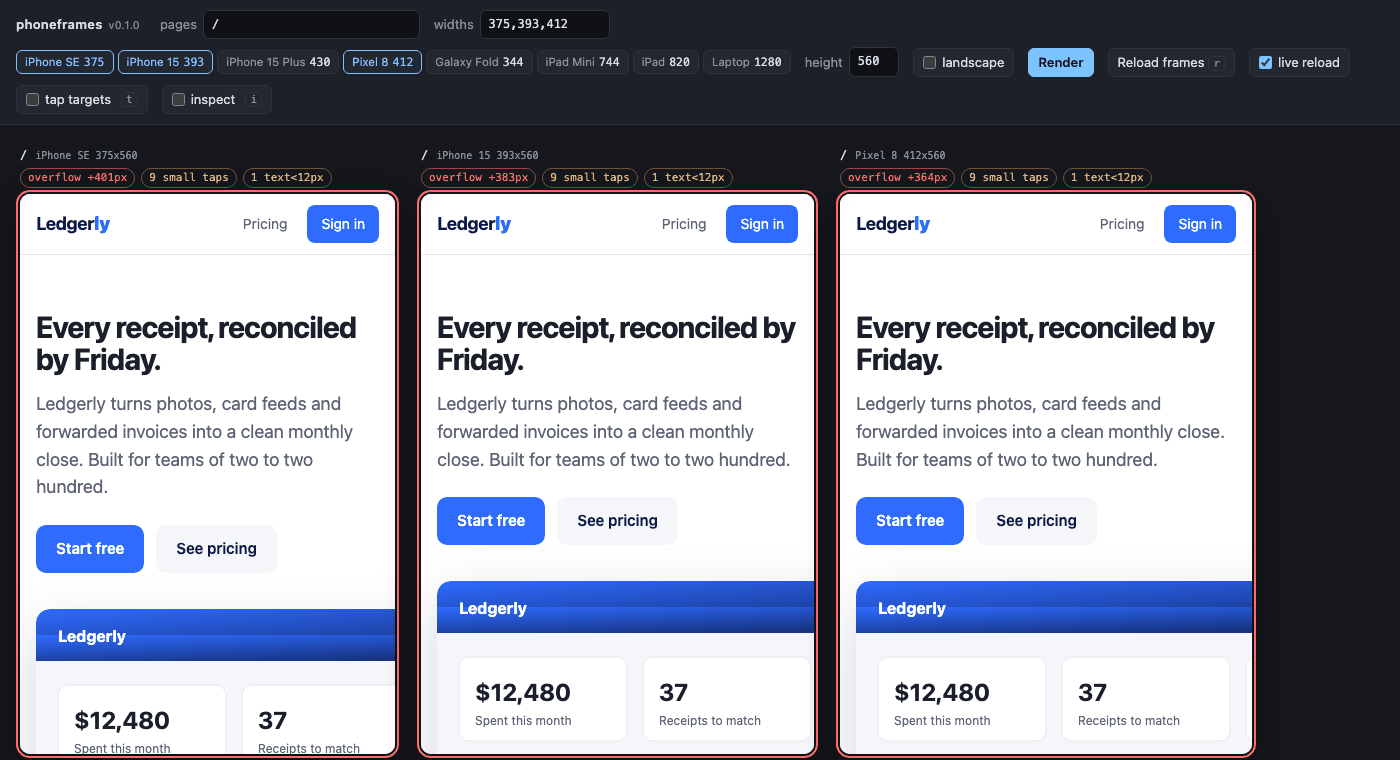
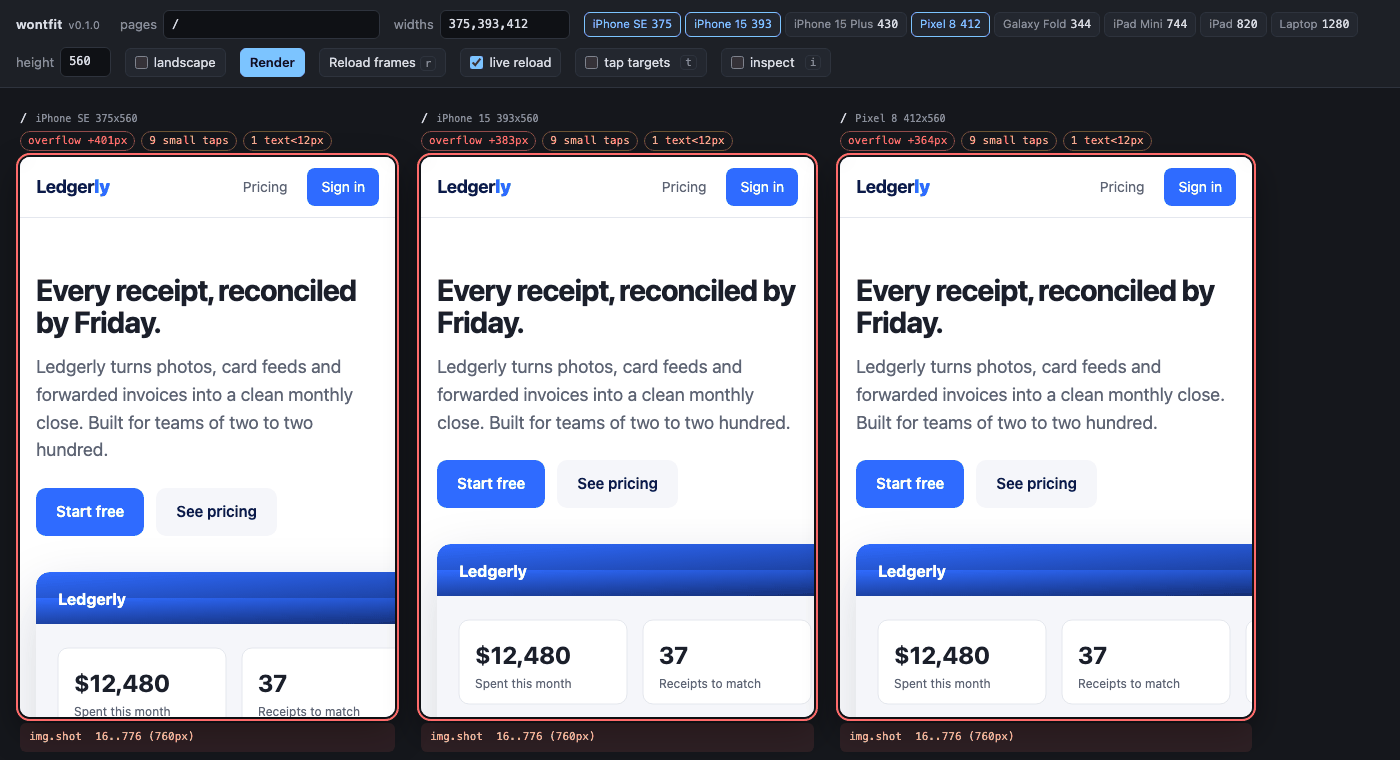
Docs: lead with what wontfit does now the name no longer says it, regenerate screenshots

diff --git a/README.md b/README.md
@@ -1,28 +1,33 @@
-# phoneframes
+# wontfit
 
-Preview any locally running web app at phone and tablet sizes, side by side,
-in your normal desktop browser. Even when the app sends `X-Frame-Options` or a
-CSP `frame-ancestors` directive. Even when your browser window is fullscreen.
+**Find out what won't fit before your users do.**
 
-![phoneframes showing a landing page at iPhone SE, iPhone 15 and Pixel 8 widths, each flagged for horizontal overflow](docs/images/hero.png)
+wontfit shows your running web app at phone and tablet widths side by side in
+the browser you already have open, tells you which element is too wide for a
+375px screen, and fails your build when a layout breaks. It works even when
+the app sends `X-Frame-Options` or a CSP `frame-ancestors` directive, and even
+when your browser window is fullscreen.
+
+![Three copies of a landing page at iPhone SE, iPhone 15 and Pixel 8 widths, each flagged for horizontal overflow](docs/images/hero.png)
 
 - **Zero dependencies.** Python 3.9+ standard library only. Binds to loopback.
-- **Diagnostics, not just frames.** Overflow with the culprit element, tap targets
-  under 44px, text under 12px, cross-frame inspect, live reload.
-- **Runs in CI.** `phoneframes check` fails the build on overflow; `phoneframes shoot`
-  writes PNGs and a contact sheet.
+- **It names the culprit.** Not just "this overflows" but `table.compare`,
+  583px too wide. Plus tap targets under 44px, text under 12px, cross-frame
+  inspect and live reload.
+- **Runs in CI.** `wontfit check` fails the build on overflow; `wontfit shoot`
+  writes PNGs and a contact sheet for the pull request.
 
 ## Install
 
 Not on PyPI yet. Until it is, install from git or a checkout:
 
 ```sh
-pipx install git+https://github.com/infodive/phoneframes      # or: uvx --from git+https://github.com/infodive/phoneframes phoneframes
-pipx install .                                                # from a clone
-python3 -m phoneframes                                        # no install at all, from a clone
+pipx install git+https://github.com/Suraj-Tiwari/wontfit   # or: uvx --from git+https://github.com/Suraj-Tiwari/wontfit wontfit
+pipx install .                                             # from a clone
+python3 -m wontfit                                         # no install at all, from a clone
 ```
 
-Once published: `pipx install phoneframes` / `uvx phoneframes`.
+Once published: `pipx install wontfit` / `uvx wontfit`.
 
 ## Try it in 30 seconds
 
@@ -30,14 +35,14 @@ No app of your own running? The repo ships a fake product site that refuses
 to be framed and has six planted mobile bugs:
 
 ```sh
-git clone https://github.com/infodive/phoneframes && cd phoneframes
+git clone https://github.com/Suraj-Tiwari/wontfit && cd wontfit
 make showcase        # starts examples/showcase on :3939 and opens the harness
 ```
 
 With your own app:
 
 ```sh
-phoneframes --upstream http://localhost:3000 --pages /,/pricing --open
+wontfit --upstream http://localhost:3000 --pages /,/pricing --open
 ```
 
 ## See it
@@ -50,7 +55,7 @@ phoneframes --upstream http://localhost:3000 --pages /,/pricing --open
 | ![The same heading highlighted in three frames](docs/images/inspect.png) | **Inspect across frames.** Press `i`, hover an element in one frame, and it is highlighted with its size in every frame; the footer shows the selector. |
 | ![Two landscape frames with a header covering content](docs/images/landscape.png) | **Landscape.** Swaps width and height. Here the app's fixed header grows to two rows and covers the KPI cards. |
 | ![Footer reading watching dist/** changed 12:58:08 1 reload](docs/images/live-reload.png) | **Live reload.** Hash a URL or watch files; the footer shows what is watched, the fingerprint and the last change. |
-| ![Six screenshots tiled on a dark sheet](docs/images/contact-sheet.png) | **`phoneframes shoot`.** A PNG per page x width plus this contact sheet, ready for a pull request. |
+| ![Six screenshots tiled on a dark sheet](docs/images/contact-sheet.png) | **`wontfit shoot`.** A PNG per page x width plus this contact sheet, ready for a pull request. |
 
 ## Why not DevTools device mode, Responsively or Polypane?
 
@@ -63,11 +68,11 @@ element is 40px too wide.
 **Responsively** and **Polypane** are dedicated browsers that solve the
 side-by-side problem well, with synced scrolling, device frames and much more.
 They are also 200-500 MB Electron apps (Polypane is paid), you use them instead
-of your usual browser and extensions, and they do not run in CI. phoneframes
-is a 2,000-line Python package with no dependencies that puts the frames in
-the browser you already have open, adds the four diagnostics a mobile layout
-review actually needs, and ships a `check` command so the same diagnostics
-gate a pull request. If you want synced scrolling, device bezels, or emulated
+of your usual browser and extensions, and they do not run in CI. wontfit is a
+2,000-line Python package with no dependencies that puts the widths in the
+browser you already have open, adds the four diagnostics a mobile layout review
+actually needs, and ships a `check` command so the same diagnostics gate a
+pull request. If you want synced scrolling, device bezels, or emulated
 touch, use one of those tools; if you want something you can `pipx install`
 and forget, this is it.
 
@@ -81,17 +86,17 @@ and forget, this is it.
 | **Live reload** | Pluggable detectors: URL body hash (`--watch-url`, default the first page, every `--watch-interval` seconds) and/or local file mtimes (`--watch-file GLOB`). |
 | **`check`** | Headless diagnostics via Playwright (optional): table, JSON report, exit 1 on `--fail-on overflow,taps,text`. |
 | **`shoot`** | PNG per page x width plus `contact-sheet.png`, via Playwright (optional). |
-| **Config** | `phoneframes.toml` or `[tool.phoneframes]` in `pyproject.toml`, found from the current directory upward. Flags override. `phoneframes init` writes a starter. |
+| **Config** | `wontfit.toml` or `[tool.wontfit]` in `pyproject.toml`, found from the current directory upward. Flags override. `wontfit init` writes a starter. |
 
 ## Configuration
 
 ```sh
-phoneframes init        # writes a commented phoneframes.toml; commit it
-phoneframes             # contributors need nothing else
+wontfit init        # writes a commented wontfit.toml; commit it
+wontfit             # contributors need nothing else
 ```
 
 ```toml
-# phoneframes.toml
+# wontfit.toml
 upstream = "http://localhost:5173"
 pages = ["/", "/pricing", "/dashboard"]
 widths = ["se", "iphone15", "pixel8"]
@@ -104,7 +109,7 @@ session = "dev-session"
 
 Keys: `upstream`, `port`, `pages`, `widths`, `height`, `cookies`, `headers`,
 `watch_url`, `watch_files`, `watch_interval`, `rewrite_host`, `insecure`,
-`out`, `fail_on`. The same table works under `[tool.phoneframes]` in
+`out`, `fail_on`. The same table works under `[tool.wontfit]` in
 `pyproject.toml`. `--no-config` ignores any file. On Python 3.9 and 3.10 a
 small built-in TOML parser reads the file (strings, numbers, booleans,
 arrays, tables); 3.11+ uses `tomllib`.
@@ -112,9 +117,9 @@ arrays, tables); 3.11+ uses `tomllib`.
 ## In CI
 
 ```sh
-pip install 'phoneframes[shoot]' && playwright install --with-deps chromium
-phoneframes check --pages /,/pricing --widths se,iphone15,pixel8 --fail-on overflow --json report.json
-phoneframes shoot --pages /,/pricing --widths se,iphone15,pixel8 --out shots
+pip install 'wontfit[shoot]' && playwright install --with-deps chromium
+wontfit check --pages /,/pricing --widths se,iphone15,pixel8 --fail-on overflow --json report.json
+wontfit shoot --pages /,/pricing --widths se,iphone15,pixel8 --out shots
 ```
 
 ```
@@ -143,7 +148,7 @@ to keep HMR working (its WebSocket does not go through the proxy).
 
 ## Flags
 
-`phoneframes [options]` starts the proxy and harness.
+`wontfit [options]` starts the proxy and harness.
 
 | Flag | Default | What it does |
 |---|---|---|
@@ -161,10 +166,10 @@ to keep HMR working (its WebSocket does not go through the proxy).
 | `--watch-file GLOB` | | Watch local files by mtime and size. Repeatable, `**` allowed. |
 | `--watch-interval S` | `2` | Seconds between checks. |
 | `--no-watch` | off | Disable live reload. |
-| `--no-config` | off | Ignore `phoneframes.toml` / `pyproject.toml`. |
+| `--no-config` | off | Ignore `wontfit.toml` / `pyproject.toml`. |
 | `-v`, `--verbose` | off | Log each proxied request. |
 
-`phoneframes check` and `phoneframes shoot` take `--upstream --pages --widths
+`wontfit check` and `wontfit shoot` take `--upstream --pages --widths
 --height --cookie --header --insecure --no-config --landscape --timeout
 --settle`, plus:
 
@@ -176,7 +181,7 @@ to keep HMR working (its WebSocket does not go through the proxy).
 | shoot | `--full-page` | off | Whole scrollable page, not just the viewport. |
 | shoot | `--no-sheet` | off | Skip `contact-sheet.png`. |
 
-`phoneframes init [--upstream URL] [--path FILE] [--force]` writes the starter config.
+`wontfit init [--upstream URL] [--path FILE] [--force]` writes the starter config.
 
 Harness shortcuts (when the harness itself has focus): `r` reload, `t` tap
 overlay, `i` inspect, `Esc` leave a field. URL keys: `p` pages, `w` widths,
@@ -184,7 +189,7 @@ overlay, `i` inspect, `Esc` leave a field. URL keys: `p` pages, `w` widths,
 
 ## FAQ
 
-**The app sets a CSP. Does phoneframes weaken it?**
+**The app sets a CSP. Does wontfit weaken it?**
 Only `frame-ancestors` is removed. `script-src`, `connect-src`, nonces and the
 rest are forwarded as sent, for `Content-Security-Policy-Report-Only` too.
 `X-Frame-Options` is dropped because it has no other purpose.
@@ -233,7 +238,7 @@ not in the default `--fail-on`.
 
 ## Security note
 
-phoneframes strips framing protection from whatever you point it at and has
+wontfit strips framing protection from whatever you point it at and has
 no authentication, so it binds to `127.0.0.1` only. Never expose the port on a
 network interface, through a tunnel, or via a container port mapping. To
 preview on a real device, use your app's own dev server on the LAN.

diff --git a/CHANGELOG.md b/CHANGELOG.md
@@ -1,19 +1,19 @@
 # Changelog
 
-All notable changes to phoneframes are recorded here. The format follows
+All notable changes to wontfit are recorded here. The format follows
 [Keep a Changelog](https://keepachangelog.com/en/1.1.0/) and the project uses
 [Semantic Versioning](https://semver.org/).
 
 ## [Unreleased]
 
 ### Added
-- `phoneframes.toml` / `[tool.phoneframes]` in `pyproject.toml`, discovered from
-  the current directory upward; flags override. `phoneframes init` writes a
+- `wontfit.toml` / `[tool.wontfit]` in `pyproject.toml`, discovered from
+  the current directory upward; flags override. `wontfit init` writes a
   commented starter. `--no-config` ignores any file. A built-in TOML-subset
   parser covers Python 3.9 and 3.10; 3.11+ uses `tomllib`.
-- `phoneframes check`: the same diagnostics headlessly via Playwright, a
+- `wontfit check`: the same diagnostics headlessly via Playwright, a
   terminal table, `--json` report, and `--fail-on overflow,taps,text` for CI.
-- `phoneframes shoot` now also writes `contact-sheet.png` (all frames tiled),
+- `wontfit shoot` now also writes `contact-sheet.png` (all frames tiled),
   reads the config file, and accepts `--landscape`, `--timeout`, `--settle`.
 - `examples/showcase`: the Ledgerly demo site (marketing pages plus a dashboard)
   that blocks framing and has six planted mobile bugs; `make showcase`.
@@ -21,6 +21,11 @@ All notable changes to phoneframes are recorded here. The format follows
   `docs/recipes.md` for twelve stacks, `docs/ci-example.yml` and a pre-push hook example.
 
 ### Changed
+- **Renamed the project from `phoneframes` to `wontfit`,** before any release.
+  The package, module and console script are `wontfit`; the harness moved from
+  `/__phoneframes` to `/__wontfit`; config lives in `wontfit.toml` or
+  `[tool.wontfit]`. Nothing had been published under the old name, so there is
+  no compatibility shim.
 - Overflow diagnostics list only the outermost offending elements, so a wide
   table no longer reports every `thead`, `tr` and `th` inside it.
 - Frame captions wrap within the frame width instead of widening the column.
@@ -35,7 +40,7 @@ All notable changes to phoneframes are recorded here. The format follows
   bodies, passes `Content-Encoding` through untouched, and supports HTTPS
   upstreams with `--insecure` for self-signed certificates.
 - `--rewrite-host` to control the upstream `Host` header (`preserve` or a literal).
-- Harness at `/__phoneframes`: pages, typed widths or device presets (iPhone SE,
+- Harness at `/__wontfit`: pages, typed widths or device presets (iPhone SE,
   iPhone 15, iPhone 15 Plus, Pixel 8, Galaxy Fold, iPad Mini, iPad, laptop),
   height, orientation toggle, one column per page x width, state in the URL,
   "Reload frames" with the `r` shortcut.
@@ -44,5 +49,5 @@ All notable changes to phoneframes are recorded here. The format follows
   inspect highlighting. All best-effort and safe across cross-origin navigation.
 - Live reload with pluggable detectors: URL body hashing (`--watch-url`,
   `--watch-interval`) and local file mtimes (`--watch-file`), with state in the footer.
-- `phoneframes shoot` for PNG screenshots via Playwright, which stays optional.
+- `wontfit shoot` for PNG screenshots via Playwright, which stays optional.
 - Unit tests (`python3 -m unittest`), GitHub Actions on 3.9 and 3.12, Makefile.
